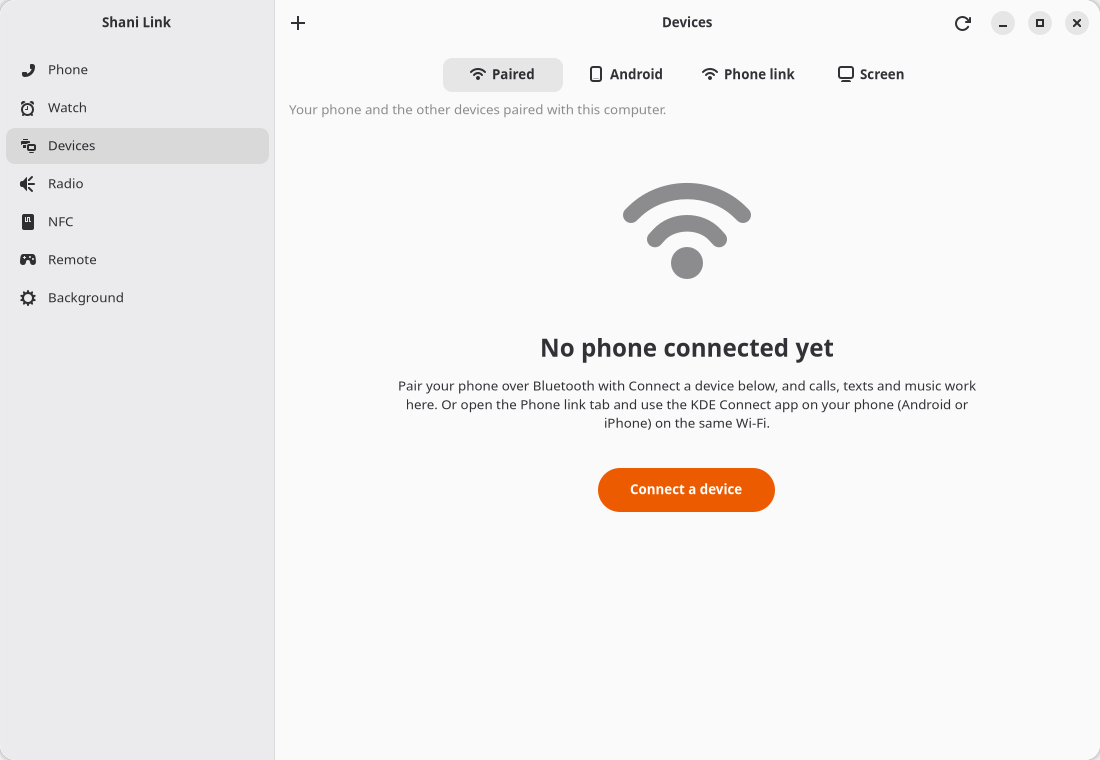
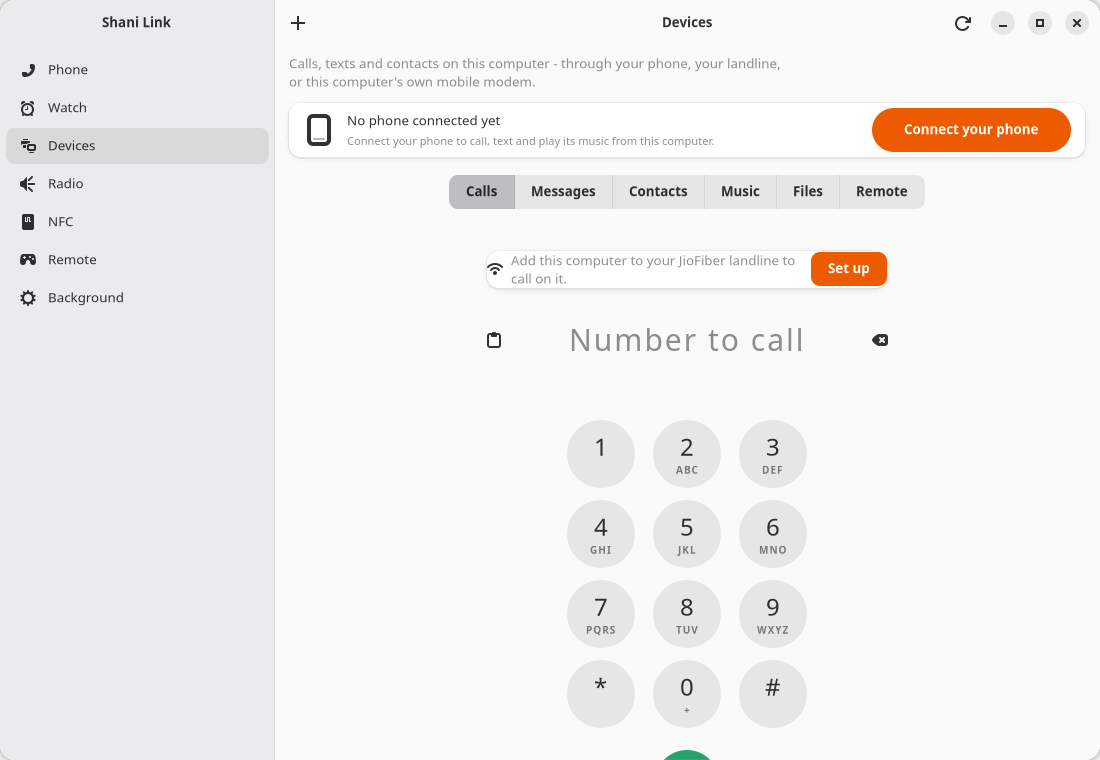
devices: the Screen tab names both roads, and its picture is re-rendered
The row said "first turn on Bluetooth tethering", which is no longer the only
way in. The screenshots are regenerated with tools/screenshots.py (SHOTS=devices);
they are the repo's own renderer, not a screen grab.

diff --git a/shani_link/app/screen_share.py b/shani_link/app/screen_share.py
@@ -155,9 +155,8 @@ class _ShareSurface:
         self._body.append(self._group)
         self._row = common.row("Share this screen with your phone",
                                "Plug the phone in with USB debugging on, or turn on "
-                               "its Bluetooth tethering and connect this computer to "
-                               "it. You choose what to share; over the cable the "
-                               "picture never leaves the phone's own loopback.",
+                               "its Bluetooth tethering and connect this computer to it. "
+                               "You choose what to share.",
                                suffix=self._buttons())
         self._group.add(self._row)
         #: What the last action said, in full - a truncated one-line label is not
